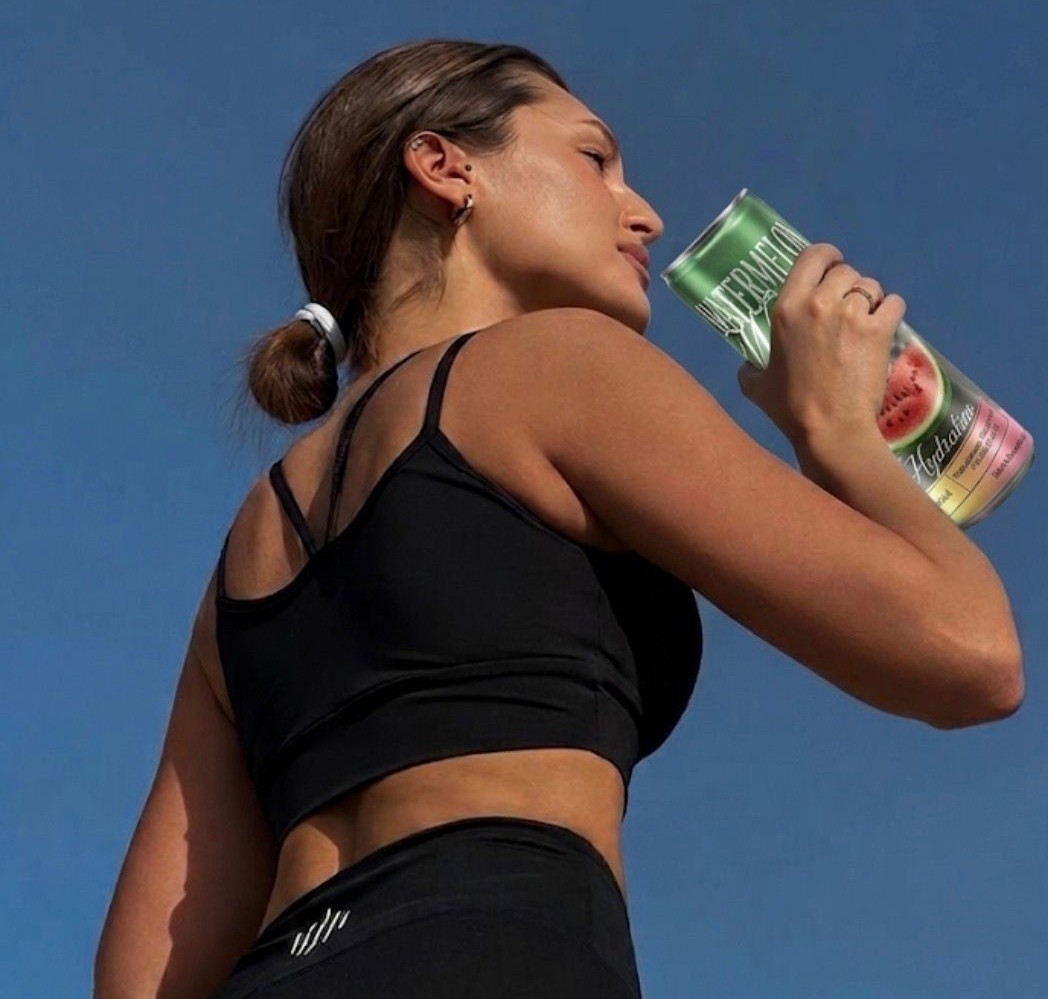
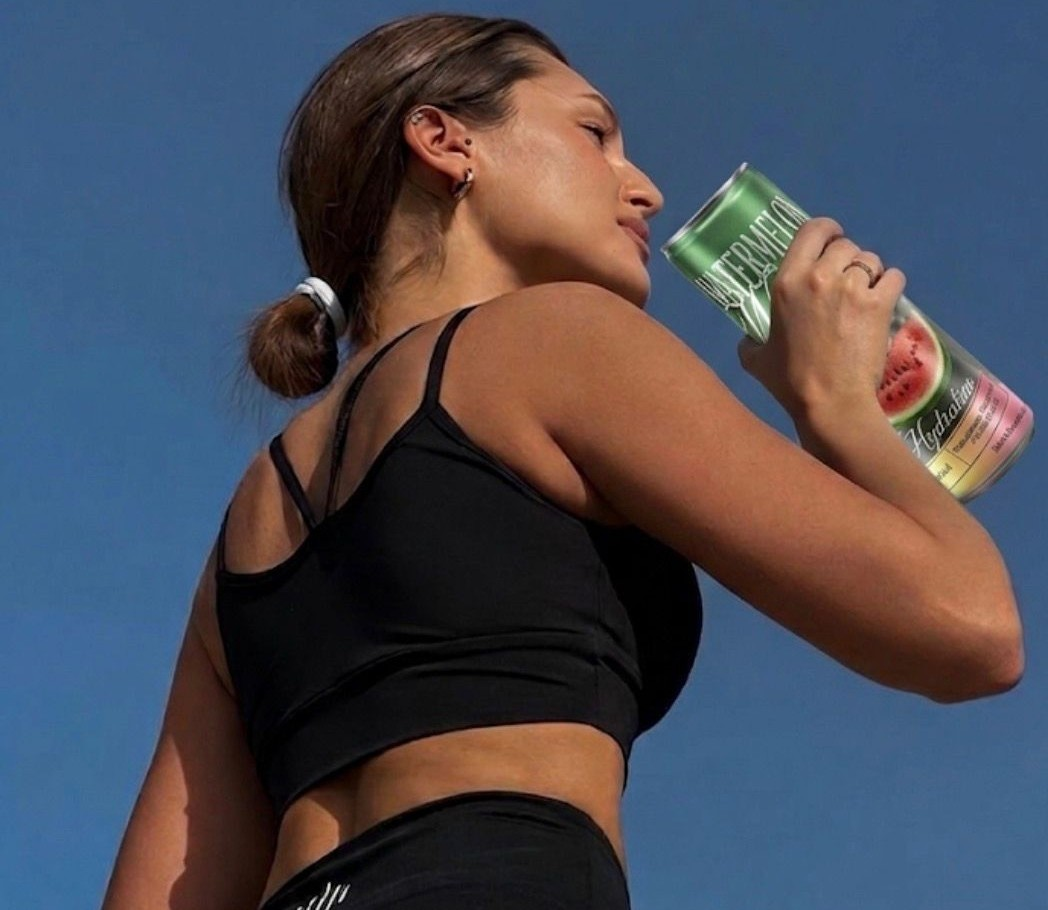
Updat ei blog section

diff --git a/css/style.css b/css/style.css
@@ -1073,6 +1073,97 @@ a.more {
   text-transform: uppercase;
 }
 
+.testimonial-section {
+  position: relative;
+  overflow: hidden;
+  margin: 5rem 0;
+  padding: 5rem 0 8rem;
+  background:
+    radial-gradient(circle at 18% 24%, rgba(183, 255, 0, 0.34), transparent 24%),
+    radial-gradient(circle at 82% 18%, rgba(0, 229, 255, 0.26), transparent 26%),
+    radial-gradient(circle at 72% 84%, rgba(255, 42, 61, 0.22), transparent 25%),
+    linear-gradient(135deg, #050609 0%, #101722 52%, #06160f 100%);
+  border-top: 1px solid rgba(183, 255, 0, 0.28);
+  border-bottom: 1px solid rgba(0, 229, 255, 0.22);
+}
+
+.testimonial-section:before {
+  content: "";
+  position: absolute;
+  inset: 0;
+  background:
+    linear-gradient(115deg, transparent 0 18%, rgba(183, 255, 0, 0.15) 18% 25%, transparent 25% 100%),
+    repeating-linear-gradient(115deg, rgba(255, 255, 255, 0.05) 0 1px, transparent 1px 22px);
+  pointer-events: none;
+}
+
+.testimonial-section .container {
+  position: relative;
+  z-index: 1;
+}
+
+.testimonial-section .section-title {
+  color: #ffffff;
+  text-shadow: 0 0 26px rgba(183, 255, 0, 0.28);
+}
+
+.testimonial-slider-wrap .item .testimonial-block {
+  max-width: 840px;
+  margin: 0 auto;
+  padding: 34px 34px 30px;
+  border: 1px solid rgba(183, 255, 0, 0.28);
+  border-radius: 8px;
+  background:
+    linear-gradient(135deg, rgba(255, 255, 255, 0.12), rgba(255, 255, 255, 0.04)),
+    rgba(6, 7, 10, 0.72);
+  box-shadow: 0 24px 70px rgba(0, 0, 0, 0.34), inset 0 0 0 1px rgba(255, 255, 255, 0.05);
+  backdrop-filter: blur(8px);
+}
+
+.testimonial-slider-wrap .item .testimonial-block blockquote {
+  color: rgba(255, 255, 255, 0.88);
+}
+
+.testimonial-slider-wrap .item .testimonial-block blockquote p {
+  margin-bottom: 0;
+}
+
+.testimonial-slider-wrap .item .testimonial-block .author-info h3 {
+  color: var(--fuel-lime);
+  font-family: var(--fuel-display);
+  font-size: 26px;
+  font-weight: 900;
+  text-transform: uppercase;
+}
+
+.testimonial-slider-wrap .item .testimonial-block .author-info .position {
+  color: rgba(255, 255, 255, 0.68);
+}
+
+.testimonial-slider-wrap #testimonial-nav > span {
+  background: var(--fuel-lime);
+  color: var(--fuel-black);
+  box-shadow: 0 0 24px rgba(183, 255, 0, 0.38);
+}
+
+.testimonial-slider-wrap #testimonial-nav > span:hover {
+  background: var(--fuel-cyan);
+  color: var(--fuel-black);
+}
+
+.testimonial-slider-wrap .tns-nav button:before {
+  width: 18px;
+  border-radius: 999px;
+  background-color: rgba(255, 255, 255, 0.34);
+}
+
+.testimonial-slider-wrap .tns-nav button:hover:before,
+.testimonial-slider-wrap .tns-nav button.tns-nav-active:before {
+  width: 30px;
+  background: linear-gradient(90deg, var(--fuel-lime), var(--fuel-cyan));
+  box-shadow: 0 0 18px rgba(183, 255, 0, 0.55);
+}
+
 .thankyou-icon:before {
   background: rgba(183, 255, 0, 0.18);
 }

diff --git a/blog.html b/blog.html
@@ -62,7 +62,7 @@
 					<div class="row justify-content-between">
 						<div class="col-lg-5">
 							<div class="intro-excerpt">
-								<h1>Blog</h1>
+								<h1>HydraBoost</h1>
 								<p class="mb-4">Ideas, promociones y momentos para integrar HydraBoost a tu rutina activa.</p>
 								<p><a href="shop.html" class="btn btn-secondary me-2">Comprar</a><a href="contact.html" class="btn btn-white-outline">Contacto</a></p>
 							</div>
@@ -84,9 +84,9 @@
 					<div class="col-12 col-sm-6 col-md-4 mb-5"><div class="post-entry"><a href="#" class="post-thumbnail"><img src="images/post-1.jpg" alt="Antes del gym" class="img-fluid"></a><div class="post-content-entry"><h3><a href="#">Antes del gym</a></h3><div class="meta"><span>C&oacute;mo usar HydraBoost para llegar con energ&iacute;a a tu rutina.</span></div></div></div></div>
 					<div class="col-12 col-sm-6 col-md-4 mb-5"><div class="post-entry"><a href="#" class="post-thumbnail"><img src="images/post-2.jpg" alt="D&iacute;as de estudio" class="img-fluid"></a><div class="post-content-entry"><h3><a href="#">D&iacute;as de estudio</a></h3><div class="meta"><span>Una opci&oacute;n baja en az&uacute;car para clases largas y tareas.</span></div></div></div></div>
 					<div class="col-12 col-sm-6 col-md-4 mb-5"><div class="post-entry"><a href="#" class="post-thumbnail"><img src="images/post-3.jpg" alt="Hidrataci&oacute;n activa" class="img-fluid"></a><div class="post-content-entry"><h3><a href="#">Hidrataci&oacute;n activa</a></h3><div class="meta"><span>Electrolitos, vitaminas y sabor frutal en una lata de 355 ml.</span></div></div></div></div>
-					<div class="col-12 col-sm-6 col-md-4 mb-5"><div class="post-entry"><a href="#" class="post-thumbnail"><img src="images/post-1.jpg" alt="Promos 2x1" class="img-fluid"></a><div class="post-content-entry"><h3><a href="#">Promos 2x1</a></h3><div class="meta"><span>Ideas para compartir HydraBoost con tu equipo o compa de entrenamiento.</span></div></div></div></div>
-					<div class="col-12 col-sm-6 col-md-4 mb-5"><div class="post-entry"><a href="#" class="post-thumbnail"><img src="images/post-2.jpg" alt="Sabor y rendimiento" class="img-fluid"></a><div class="post-content-entry"><h3><a href="#">Sabor y rendimiento</a></h3><div class="meta"><span>Por qu&eacute; una bebida funcional tambi&eacute;n debe verse y saber bien.</span></div></div></div></div>
-					<div class="col-12 col-sm-6 col-md-4 mb-5"><div class="post-entry"><a href="#" class="post-thumbnail"><img src="images/post-3.jpg" alt="Rutina joven" class="img-fluid"></a><div class="post-content-entry"><h3><a href="#">Rutina joven</a></h3><div class="meta"><span>HydraBoost para deporte, gimnasio, escuela y vida fitness.</span></div></div></div></div>
+					<div class="col-12 col-sm-6 col-md-4 mb-5"><div class="post-entry"><a href="#" class="post-thumbnail"><img src="images/post-4.jpg" alt="Promos 2x1" class="img-fluid"></a><div class="post-content-entry"><h3><a href="#">Promos 2x1</a></h3><div class="meta"><span>Ideas para compartir HydraBoost con tu equipo o compa de entrenamiento.</span></div></div></div></div>
+					<div class="col-12 col-sm-6 col-md-4 mb-5"><div class="post-entry"><a href="#" class="post-thumbnail"><img src="images/post-5.jpg" alt="Sabor y rendimiento" class="img-fluid"></a><div class="post-content-entry"><h3><a href="#">Sabor y rendimiento</a></h3><div class="meta"><span>Por qu&eacute; una bebida funcional tambi&eacute;n debe verse y saber bien.</span></div></div></div></div>
+					<div class="col-12 col-sm-6 col-md-4 mb-5"><div class="post-entry"><a href="#" class="post-thumbnail"><img src="images/post-6.jpg" alt="Rutina joven" class="img-fluid"></a><div class="post-content-entry"><h3><a href="#">Rutina joven</a></h3><div class="meta"><span>HydraBoost para deporte, gimnasio, escuela y vida fitness.</span></div></div></div></div>
 		</div></div></div>
 		<!-- End Blog Section -->
 